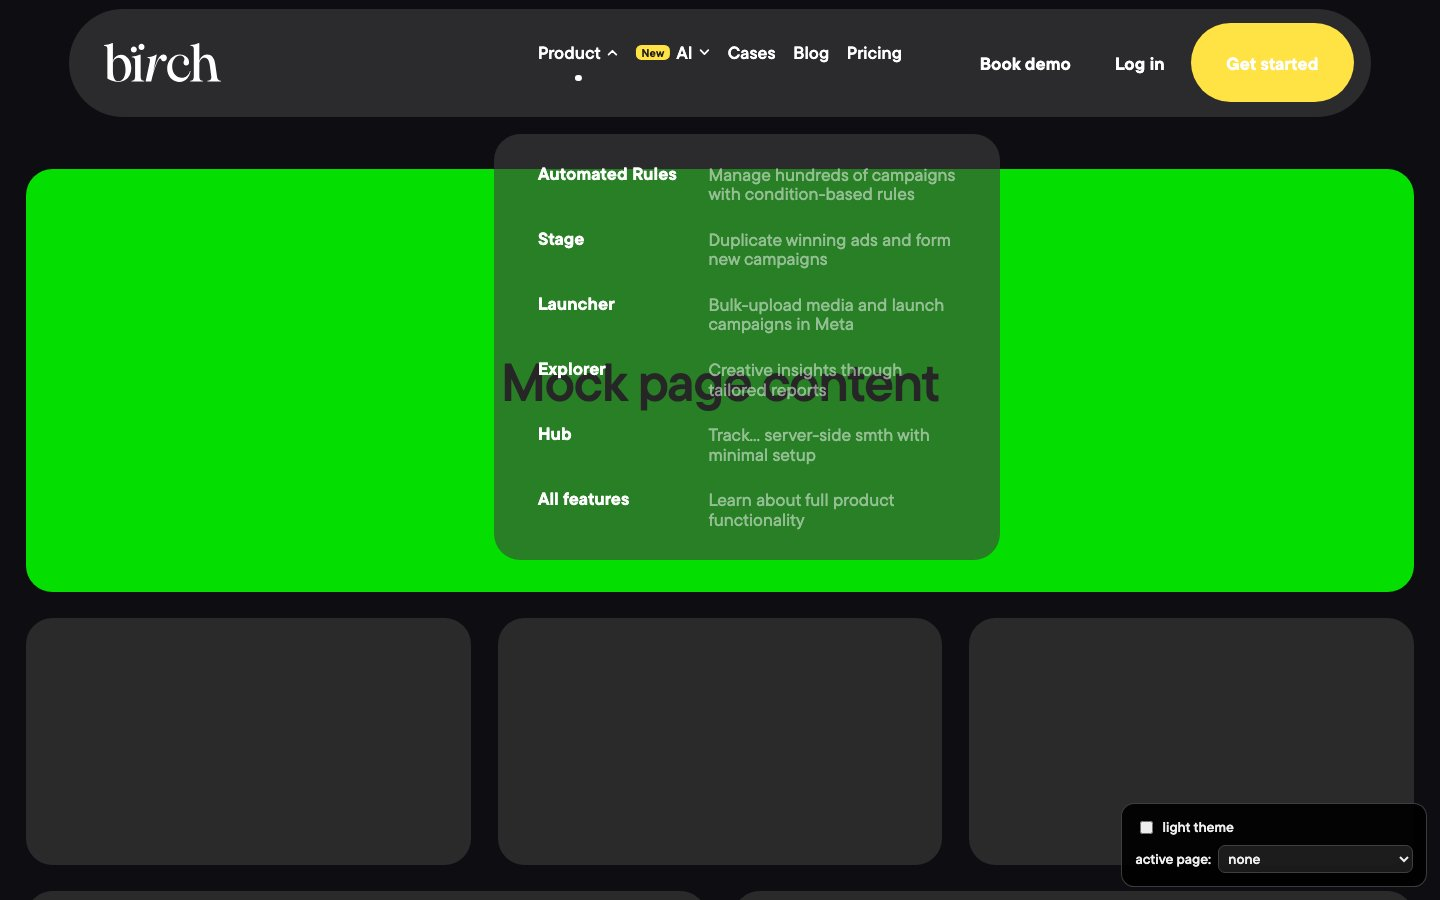
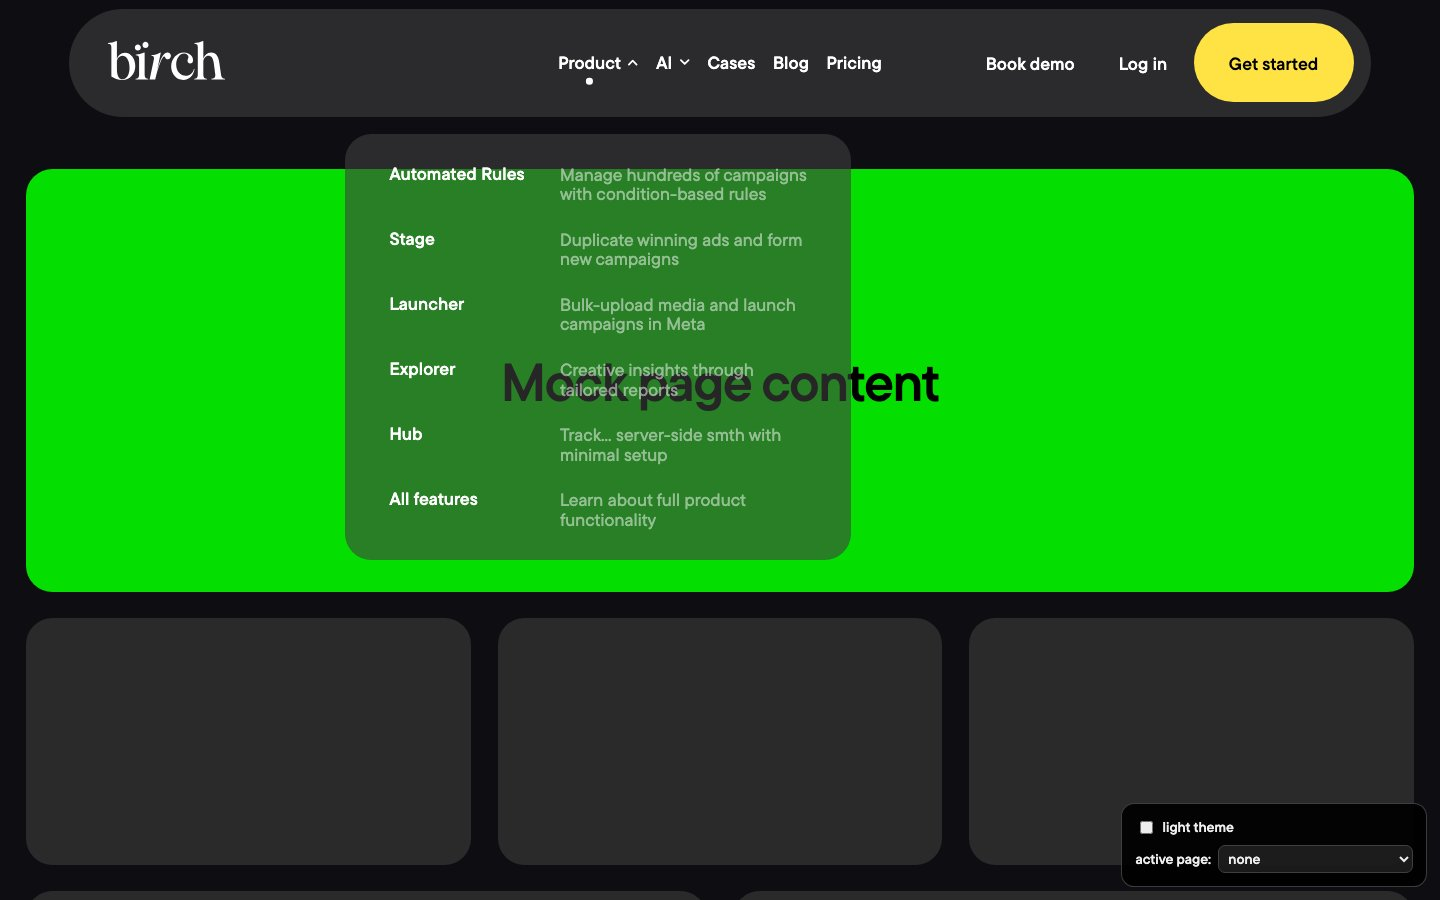
Меню v2: пакет правок ревью 26.08
- убран New с первого уровня (остался в сабменю, на 20% меньше)
- точка активного/ховера центруется по слову, не по боксу со шевроном
- панель сабменю: blur 48, ховер строки поднимает контраст описания
- Book demo/Log in: серый ховер (белый/чёрный 10% по теме)
- Get started: чёрный текст, ховер indigo с белым (+фикс специфичности .nav2 a)
- мобилка: полноэкранный фон вместо враппера, влетание снизу с разглаживанием
  радиусов (prefers-reduced-motion: только opacity), кегль CTA 24,
  логотип 21px по макету, автораскрытие активного раздела при любом сценарии
- Routines (TBD) пока без ссылки (некликабельный ряд)

diff --git a/menu.html b/menu.html
@@ -46,6 +46,8 @@
   --nav-row-hover: rgba(255, 255, 255, 0.1);
   --nav-yellow: #FFE243;
   --nav-yellow-text: #1F1F1F;
+  --nav-indigo: #4450F2;
+  --nav-btn-hover: rgba(255, 255, 255, 0.1);
 
   /* -- mobile sheet is ALWAYS dark (per mock) -- */
   --nav-sheet-bg: #292929;
@@ -59,6 +61,7 @@ body.theme-light {
   --nav-m-pill-inner: rgba(221, 220, 228, 0.5);
   --nav-m-pill-inner-blur: 0.75rem;   /* 12 */
   --nav-surface: rgba(221, 220, 228, 0.5);
+  --nav-btn-hover: rgba(0, 0, 0, 0.1);
   --nav-text: #000000;
   --nav-text-cta: #000000;
   --nav-row-hover: rgba(144, 144, 144, 0.2);
@@ -89,6 +92,9 @@ body.theme-light .mock-card { background: var(--color-surface-muted); }
   display: flex; flex-direction: column; gap: 0.5rem; opacity: 0.92;
 }
 .dev-panel label { display: flex; gap: 0.4rem; align-items: center; cursor: pointer; }
+@media (max-width: 767px) {
+  .dev-panel { right: auto; bottom: auto; left: 0.5rem; top: 5rem; z-index: 4; opacity: 0.85; }
+}
 .dev-panel select { font: inherit; background: #1c1c1c; color: #fff; border: 1px solid #444; border-radius: 0.4rem; padding: 0.15rem 0.3rem; }
 
 /* ============================================================
@@ -116,7 +122,7 @@ body.theme-light .mock-card { background: var(--color-surface-muted); }
   display: flex;
   align-items: center;
   justify-content: space-between;
-  padding: 0 1rem 0 2rem;
+  padding: 0 1rem 0 2.25rem;
 }
 
 .nav2__logo { display: flex; align-items: center; height: 2.25rem; margin-top: -0.1875rem; color: var(--nav-text); }
@@ -135,6 +141,7 @@ body.theme-light .mock-card { background: var(--color-surface-muted); }
   position: relative;
   display: flex;
   align-items: center;
+  gap: 0.375rem;
   padding: 0.25rem 0;
   font-size: var(--nav-link-size);
   font-weight: 600;
@@ -143,11 +150,11 @@ body.theme-light .mock-card { background: var(--color-surface-muted); }
   cursor: pointer;
   background: none; border: none; color: inherit; font-family: inherit;
 }
-.nav2__link-label { display: flex; align-items: center; gap: 0.375rem; }
+.nav2__word { position: relative; display: inline-block; }
 .nav2__dot {
-  /* out of flow: below the label, like the live site's .nav-link_dot */
+  /* below the word itself (not the link box, so the chevron doesn't skew it) */
   position: absolute;
-  left: 50%; top: calc(100% + 0.125rem);
+  left: 50%; top: calc(100% + 0.375rem);
   width: var(--nav-dot); height: var(--nav-dot);
   border-radius: 50%;
   background: currentColor;
@@ -161,22 +168,16 @@ body.theme-light .mock-card { background: var(--color-surface-muted); }
 .nav2__chev { display: block; width: 0.625rem; height: 0.625rem; transition: transform 200ms ease; }
 .nav2__link[aria-expanded="true"] .nav2__chev { transform: rotate(180deg); }
 
-/* "New" badge — same look as the live site's .new-menu-item:
-   small yellow tag, rotated -18deg, hanging off the top-right corner */
+/* "New" badge — live-site .new-menu-item look, submenu rows only */
 .nav2__new {
-  font-size: 0.7rem;
+  font-size: 0.5625rem;
   font-weight: 600;
   line-height: 1.2;
-  padding: 0.1rem 0.25rem 0.16rem;
-  border-radius: 0.25rem;
+  padding: 0.08rem 0.2rem 0.13rem;
+  border-radius: 0.2rem;
   background: var(--nav-yellow);
   color: #0D0D12;
   rotate: -18deg;
-}
-.nav2__link .nav2__new {
-  position: absolute;
-  top: -0.875rem;
-  right: -1.1rem;
 }
 .nav2__row-title .nav2__new { display: inline-block; translate: 0.125rem -0.3em; }
 
@@ -191,21 +192,23 @@ body.theme-light .mock-card { background: var(--color-surface-muted); }
   letter-spacing: 0.004em;
   color: var(--nav-text-cta);
 }
-.nav2__txtbtn { border-radius: 1rem; transition: background-color 150ms ease, color 150ms ease; }
-.nav2__txtbtn:hover { background: var(--nav-yellow); color: var(--nav-yellow-text); }
+.nav2__txtbtn { border-radius: 1rem; transition: background-color 150ms ease; }
+.nav2__txtbtn:hover { background: var(--nav-btn-hover); }
 .nav2__cta {
   display: flex; align-items: center; justify-content: center;
   height: var(--nav-cta-h);
   padding: 0 2rem;
   border-radius: calc(var(--nav-cta-h) / 2);
   background: var(--nav-yellow);
-  color: var(--nav-yellow-text);
+  color: #000000;
   font-size: var(--nav-link-size);
   font-weight: 600;
   letter-spacing: 0.004em;
-  transition: transform 150ms ease;
+  transition: background-color 150ms ease, color 150ms ease;
 }
-.nav2__cta:hover { transform: scale(1.03); }
+.nav2 a.nav2__cta { color: #000000; }  /* outweigh the .nav2 a inherit rule */
+.nav2 a.nav2__cta:hover { background: var(--nav-indigo); color: #ffffff; }
+.nav2__cta:hover { background: var(--nav-indigo); }
 
 /* tablet (≤991): tighten paddings so the centered menu and the
    right CTA group never collide (root font is smaller here too) */
@@ -242,8 +245,8 @@ body.theme-light .mock-card { background: var(--color-surface-muted); }
   padding: var(--nav-panel-pad);
   border-radius: var(--nav-panel-radius);
   background: var(--nav-surface);
-  -webkit-backdrop-filter: blur(1.5rem);
-  backdrop-filter: blur(1.5rem);
+  -webkit-backdrop-filter: blur(3rem);
+  backdrop-filter: blur(3rem);
   display: flex;
   flex-direction: column;
 }
@@ -257,6 +260,10 @@ body.theme-light .mock-card { background: var(--color-surface-muted); }
   transition: background-color 120ms ease;
 }
 .nav2__row:hover { background: var(--nav-row-hover); }
+.nav2__row:hover .nav2__row-desc { opacity: 1; }
+.nav2__row.is-static { cursor: default; }
+.nav2__row.is-static:hover { background: none; }
+.nav2__row.is-static:hover .nav2__row-desc { opacity: 0.5; }
 .nav2__row-title {
   flex: none;
   width: var(--nav-row-title-w);
@@ -315,7 +322,7 @@ body.theme-light .mock-card { background: var(--color-surface-muted); }
     display: flex;
     align-items: center;
     justify-content: space-between;
-    padding: 0 0.6875rem 0 1rem;     /* 11 / 16 */
+    padding: 0 0.6875rem 0 1.3125rem;  /* 11 / 21 per mock */
     color: var(--nav-text);
   }
   /* ... + inner tinted layer with its own blur */
@@ -365,31 +372,35 @@ body.theme-light .mock-card { background: var(--color-surface-muted); }
     transition: opacity 200ms ease;
   }
 
-  /* the sheet: always dark, both themes (per mock) */
+  /* the open menu: full-page surface (no card wrapper), always dark in
+     both themes (per mock). Opens app-style: flies in from the bottom
+     of the screen and its top radii flatten to 0 as it docks. */
   .nav2m__sheet {
     position: fixed;
-    top: 4.5rem;                     /* 72 = pill 64 + 2×4 */
-    left: 0.1875rem; right: 0.1875rem;  /* 3 */
-    bottom: 0.25rem;
+    inset: 0;
     z-index: 10;
-    border-radius: 2.25rem;          /* 36 */
+    border-radius: 2.25rem 2.25rem 0 0;
     background: var(--nav-sheet-bg);
     color: var(--nav-sheet-text);
-    padding: 1rem 0.5rem 0.5rem;     /* 16 / 8 / 8 */
+    padding: 5.25rem 0.5rem 0.5rem;  /* pill 64 + margins + 16 */
     display: flex;
     flex-direction: column;
     justify-content: space-between;
     gap: 1.5rem;
     overflow-y: auto;
     overscroll-behavior: contain;
-    opacity: 0;
-    translate: 0 0.75rem;
+    translate: 0 100%;
     visibility: hidden;
-    transition: opacity 220ms ease, translate 220ms ease, visibility 0s linear 220ms;
+    transition: translate 380ms cubic-bezier(0.32, 0.72, 0, 1),
+                border-radius 250ms ease,
+                visibility 0s linear 400ms;
   }
   .nav2m.is-open .nav2m__sheet {
-    opacity: 1; translate: 0 0; visibility: visible;
-    transition: opacity 220ms ease, translate 220ms ease;
+    translate: 0 0;
+    border-radius: 0;
+    visibility: visible;
+    transition: translate 380ms cubic-bezier(0.32, 0.72, 0, 1),
+                border-radius 250ms ease 130ms;
   }
 
   .nav2m__list { width: 100%; padding: 0 0.875rem; }  /* center col ≈ 270/320 */
@@ -406,8 +417,6 @@ body.theme-light .mock-card { background: var(--color-surface-muted); }
     cursor: pointer;
     text-align: left;
   }
-  /* absolute like the live site's .new-menu-item.mobile: text stays in column */
-  .nav2m__toprow-label .nav2__new { position: absolute; top: -0.625rem; right: -2.5rem; }
   .nav2m__subrow-title .nav2__new { display: inline-block; translate: 0.125rem -0.3em; }
   .nav2m__toprow-label {
     position: relative;
@@ -452,6 +461,9 @@ body.theme-light .mock-card { background: var(--color-surface-muted); }
   }
   .nav2m__subrow.is-active { }
   .nav2m__subrow:active { background: var(--nav-sheet-row-hover); }
+  .nav2m__subrow:active .nav2m__subrow-desc { opacity: 1; }
+  .nav2m__subrow.is-static { cursor: default; }
+  .nav2m__subrow.is-static:active { background: none; }
   .nav2m__subrow-title {
     display: flex; align-items: baseline; gap: 0.375rem;
     font-size: 1rem;
@@ -486,16 +498,22 @@ body.theme-light .mock-card { background: var(--color-surface-muted); }
     border-radius: 1.75rem;
     background: var(--nav-sheet-cta-bg);
     color: #fff;
-    font-size: 1.375rem;             /* 22 */
+    font-size: 1.5rem;               /* 24 — same as top-level items */
     font-weight: 600;
     letter-spacing: -0.026em;
   }
-  .nav2m__cta-btn.is-yellow { background: var(--nav-yellow); color: var(--nav-yellow-text); }
+  .nav2m__cta-btn.is-yellow { background: var(--nav-yellow); color: #000000; }
 }
 
 /* reduced motion: no movement, opacity only */
 @media (prefers-reduced-motion: reduce) {
-  .nav2__panel-wrap, .nav2m__sheet { translate: 0 0; transition-property: opacity, visibility; }
+  .nav2__panel-wrap { translate: 0 0; transition-property: opacity, visibility; }
+  .nav2m__sheet {
+    translate: 0 0; border-radius: 0;
+    opacity: 0;
+    transition: opacity 200ms ease, visibility 0s linear 200ms;
+  }
+  .nav2m.is-open .nav2m__sheet { opacity: 1; transition: opacity 200ms ease; }
   .nav2m__sub { transition: none; }
   .nav2__chev, .nav2m__chev, .nav2m__burger svg { transition: none; }
 }
@@ -584,7 +602,7 @@ var MENU = [
     { title: 'Bïrch AI',     desc: 'Manage hundreds of campaigns with condition-based rules', url: '/ai',              isNew: false },
     { title: 'Birch MCP',        desc: 'Duplicate winning ads and form new campaigns',            url: '/mcp',             isNew: true  },
     { title: 'Prompting guide',  desc: 'Bulk-upload media and launch campaigns in Meta',          url: '/prompting-guide', isNew: false },
-    { title: 'Routines (TBD)',   desc: 'Creative insights through tailored reports',              url: '#',                isNew: false }
+    { title: 'Routines (TBD)',   desc: 'Creative insights through tailored reports',              url: null,               isNew: false }
   ], matchUrls: ['/ai', '/mcp', '/prompting-guide'] },
   { label: 'Cases',   url: '/case-studies', matchPrefix: '/case-studies' },
   { label: 'Blog',    url: '/blog',         matchPrefix: '/blog' },
@@ -622,15 +640,12 @@ function isSubActive(sub) { return ACTIVE_URL && sub.url === ACTIVE_URL; }
 
   var html = '';
   MENU.forEach(function (item, i) {
-    var badge = item.isNew ? newBadge() : '';
+    var word = '<span class="nav2__word">' + item.label + '<span class="nav2__dot"></span></span>';
     if (item.submenu) {
       html += '<button class="nav2__link" data-panel="' + i + '" aria-expanded="false" aria-controls="nav2-panel-' + i + '">'
-        + '<span class="nav2__link-label">' + badge + item.label + CHEV + '</span>'
-        + '<span class="nav2__dot"></span></button>';
+        + word + CHEV + '</button>';
     } else {
-      html += '<a class="nav2__link" href="' + item.url + '">'
-        + '<span class="nav2__link-label">' + badge + item.label + '</span>'
-        + '<span class="nav2__dot"></span></a>';
+      html += '<a class="nav2__link" href="' + item.url + '">' + word + '</a>';
     }
   });
   menuEl.innerHTML = html;
@@ -643,10 +658,12 @@ function isSubActive(sub) { return ACTIVE_URL && sub.url === ACTIVE_URL; }
     wrap.id = 'nav2-panel-' + i;
     var rows = item.submenu.map(function (sub) {
       var badge = sub.isNew ? newBadge() : '';
-      return '<a class="nav2__row" href="' + sub.url + '" data-url="' + sub.url + '">'
+      var open2 = sub.url ? '<a class="nav2__row" href="' + sub.url + '" data-url="' + sub.url + '">'
+                          : '<span class="nav2__row is-static">';
+      return open2
         + '<span class="nav2__row-dot"></span>'
         + '<span class="nav2__row-title">' + sub.title + badge + '</span>'
-        + '<span class="nav2__row-desc">' + sub.desc + '</span></a>';
+        + '<span class="nav2__row-desc">' + sub.desc + '</span>' + (sub.url ? '</a>' : '</span>');
     }).join('');
     wrap.innerHTML = '<div class="nav2__panel">' + rows + '</div>';
     pill.appendChild(wrap);
@@ -725,25 +742,26 @@ function isSubActive(sub) { return ACTIVE_URL && sub.url === ACTIVE_URL; }
 
   var html = '';
   MENU.forEach(function (item, i) {
-    var badge = item.isNew ? newBadge() : '';
     if (item.submenu) {
       var rows = item.submenu.map(function (sub) {
         var b = sub.isNew ? newBadge() : '';
-        return '<a class="nav2m__subrow" href="' + sub.url + '" data-url="' + sub.url + '">'
+        var open2 = sub.url ? '<a class="nav2m__subrow" href="' + sub.url + '" data-url="' + sub.url + '">'
+                            : '<span class="nav2m__subrow is-static">';
+        return open2
           + '<span class="nav2m__subdot"></span>'
           + '<span class="nav2m__subrow-title">' + sub.title + b + '</span>'
-          + '<span class="nav2m__subrow-desc">' + sub.desc + '</span></a>';
+          + '<span class="nav2m__subrow-desc">' + sub.desc + '</span>' + (sub.url ? '</a>' : '</span>');
       }).join('');
       html += '<div class="nav2m__item" data-item="' + i + '">'
         + '<button class="nav2m__toprow" aria-expanded="false">'
-        + '<span class="nav2m__toprow-label"><span class="nav2m__topdot"></span>' + badge + item.label + '</span>' + CHEV_M
+        + '<span class="nav2m__toprow-label"><span class="nav2m__topdot"></span>' + item.label + '</span>' + CHEV_M
         + '</button>'
         + '<div class="nav2m__sub"><div class="nav2m__sub-inner"><div class="nav2m__sub-list">' + rows + '</div></div></div>'
         + '</div>';
     } else {
       html += '<div class="nav2m__item" data-item="' + i + '">'
         + '<a class="nav2m__toprow" href="' + item.url + '">'
-        + '<span class="nav2m__toprow-label"><span class="nav2m__topdot"></span>' + badge + item.label + '</span>'
+        + '<span class="nav2m__toprow-label"><span class="nav2m__topdot"></span>' + item.label + '</span>'
         + '</a></div>';
     }
   });
@@ -789,13 +807,24 @@ function isSubActive(sub) { return ACTIVE_URL && sub.url === ACTIVE_URL; }
     document.body.style.overflow = '';
   }
 
+  window.__nav2mSyncExpand = function () {
+    if (!root.classList.contains('is-open')) return;
+    var activeSub = listEl.querySelector('.nav2m__subrow.is-active');
+    if (!activeSub) return;
+    var itemEl = activeSub.closest('.nav2m__item');
+    if (!itemEl.classList.contains('is-expanded')) {
+      listEl.querySelectorAll('.nav2m__item.is-expanded').forEach(function (el) { expandItem(el, false); });
+      expandItem(itemEl, true);
+    }
+  };
+
   burger.addEventListener('click', function () {
     if (root.classList.contains('is-open')) closeSheet(); else openSheet();
   });
   root.querySelector('[data-nav2m-close]').addEventListener('click', closeSheet);
   document.addEventListener('keydown', function (e) { if (e.key === 'Escape') closeSheet(); });
   listEl.addEventListener('click', function (e) {
-    if (e.target.closest('a')) closeSheet();
+    if (e.target.closest('a[href]')) closeSheet();
   });
 })();
 
@@ -818,6 +847,7 @@ function applyActive() {
   document.querySelectorAll('.nav2m__subrow').forEach(function (el) {
     el.classList.toggle('is-active', el.getAttribute('data-url') === ACTIVE_URL);
   });
+  if (window.__nav2mSyncExpand) window.__nav2mSyncExpand();
 }
 applyActive();
 
